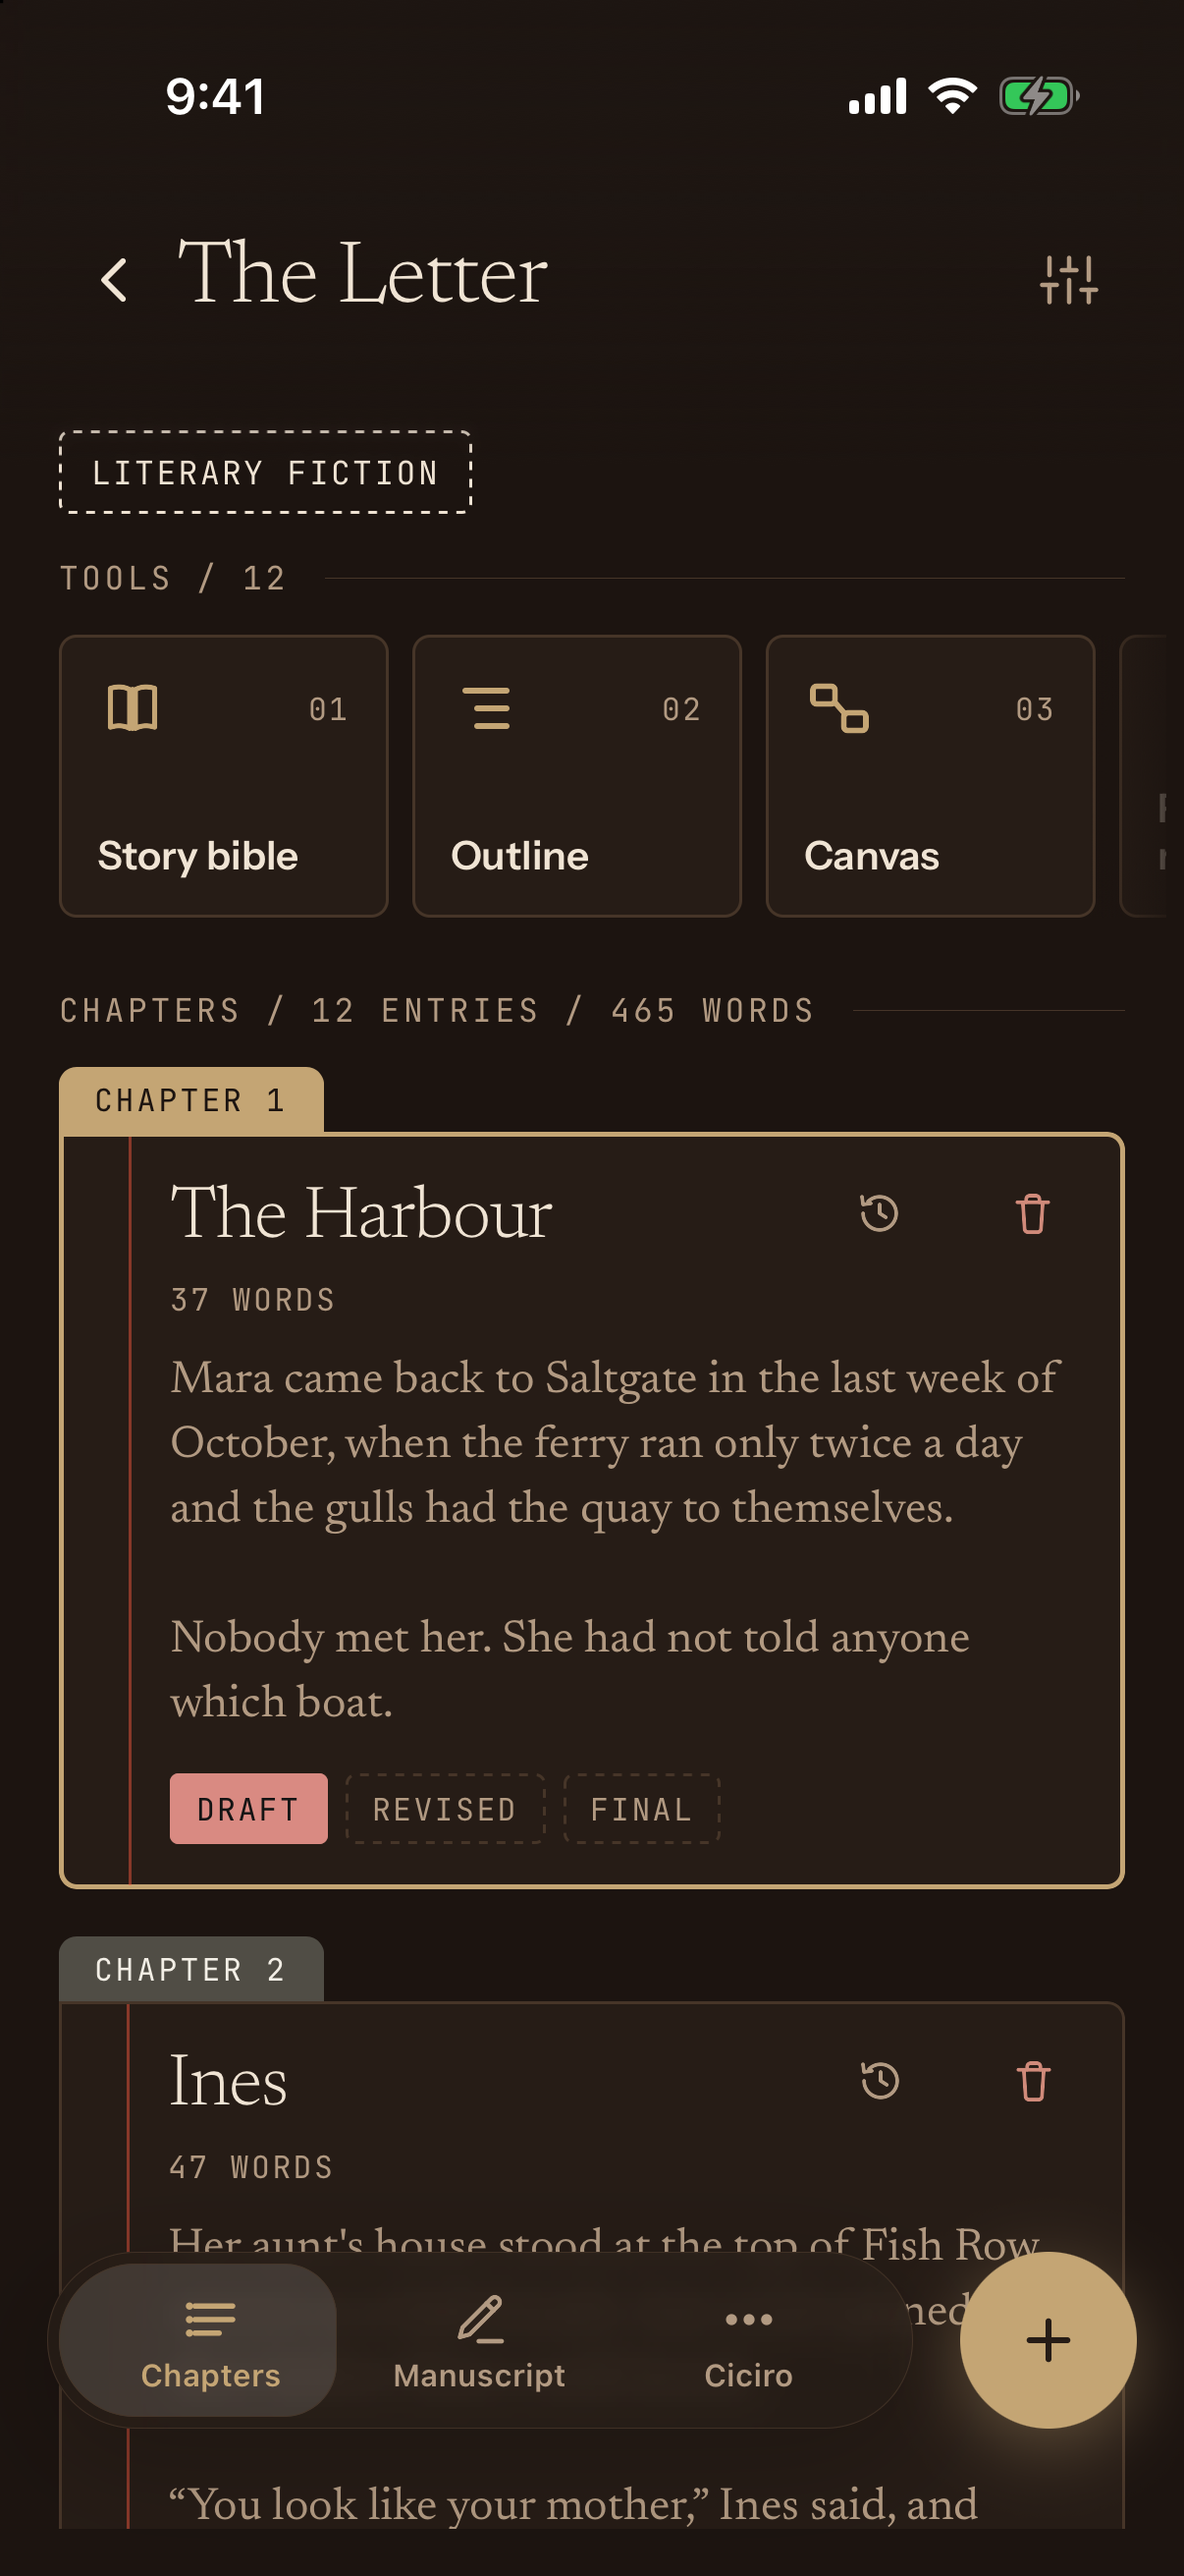
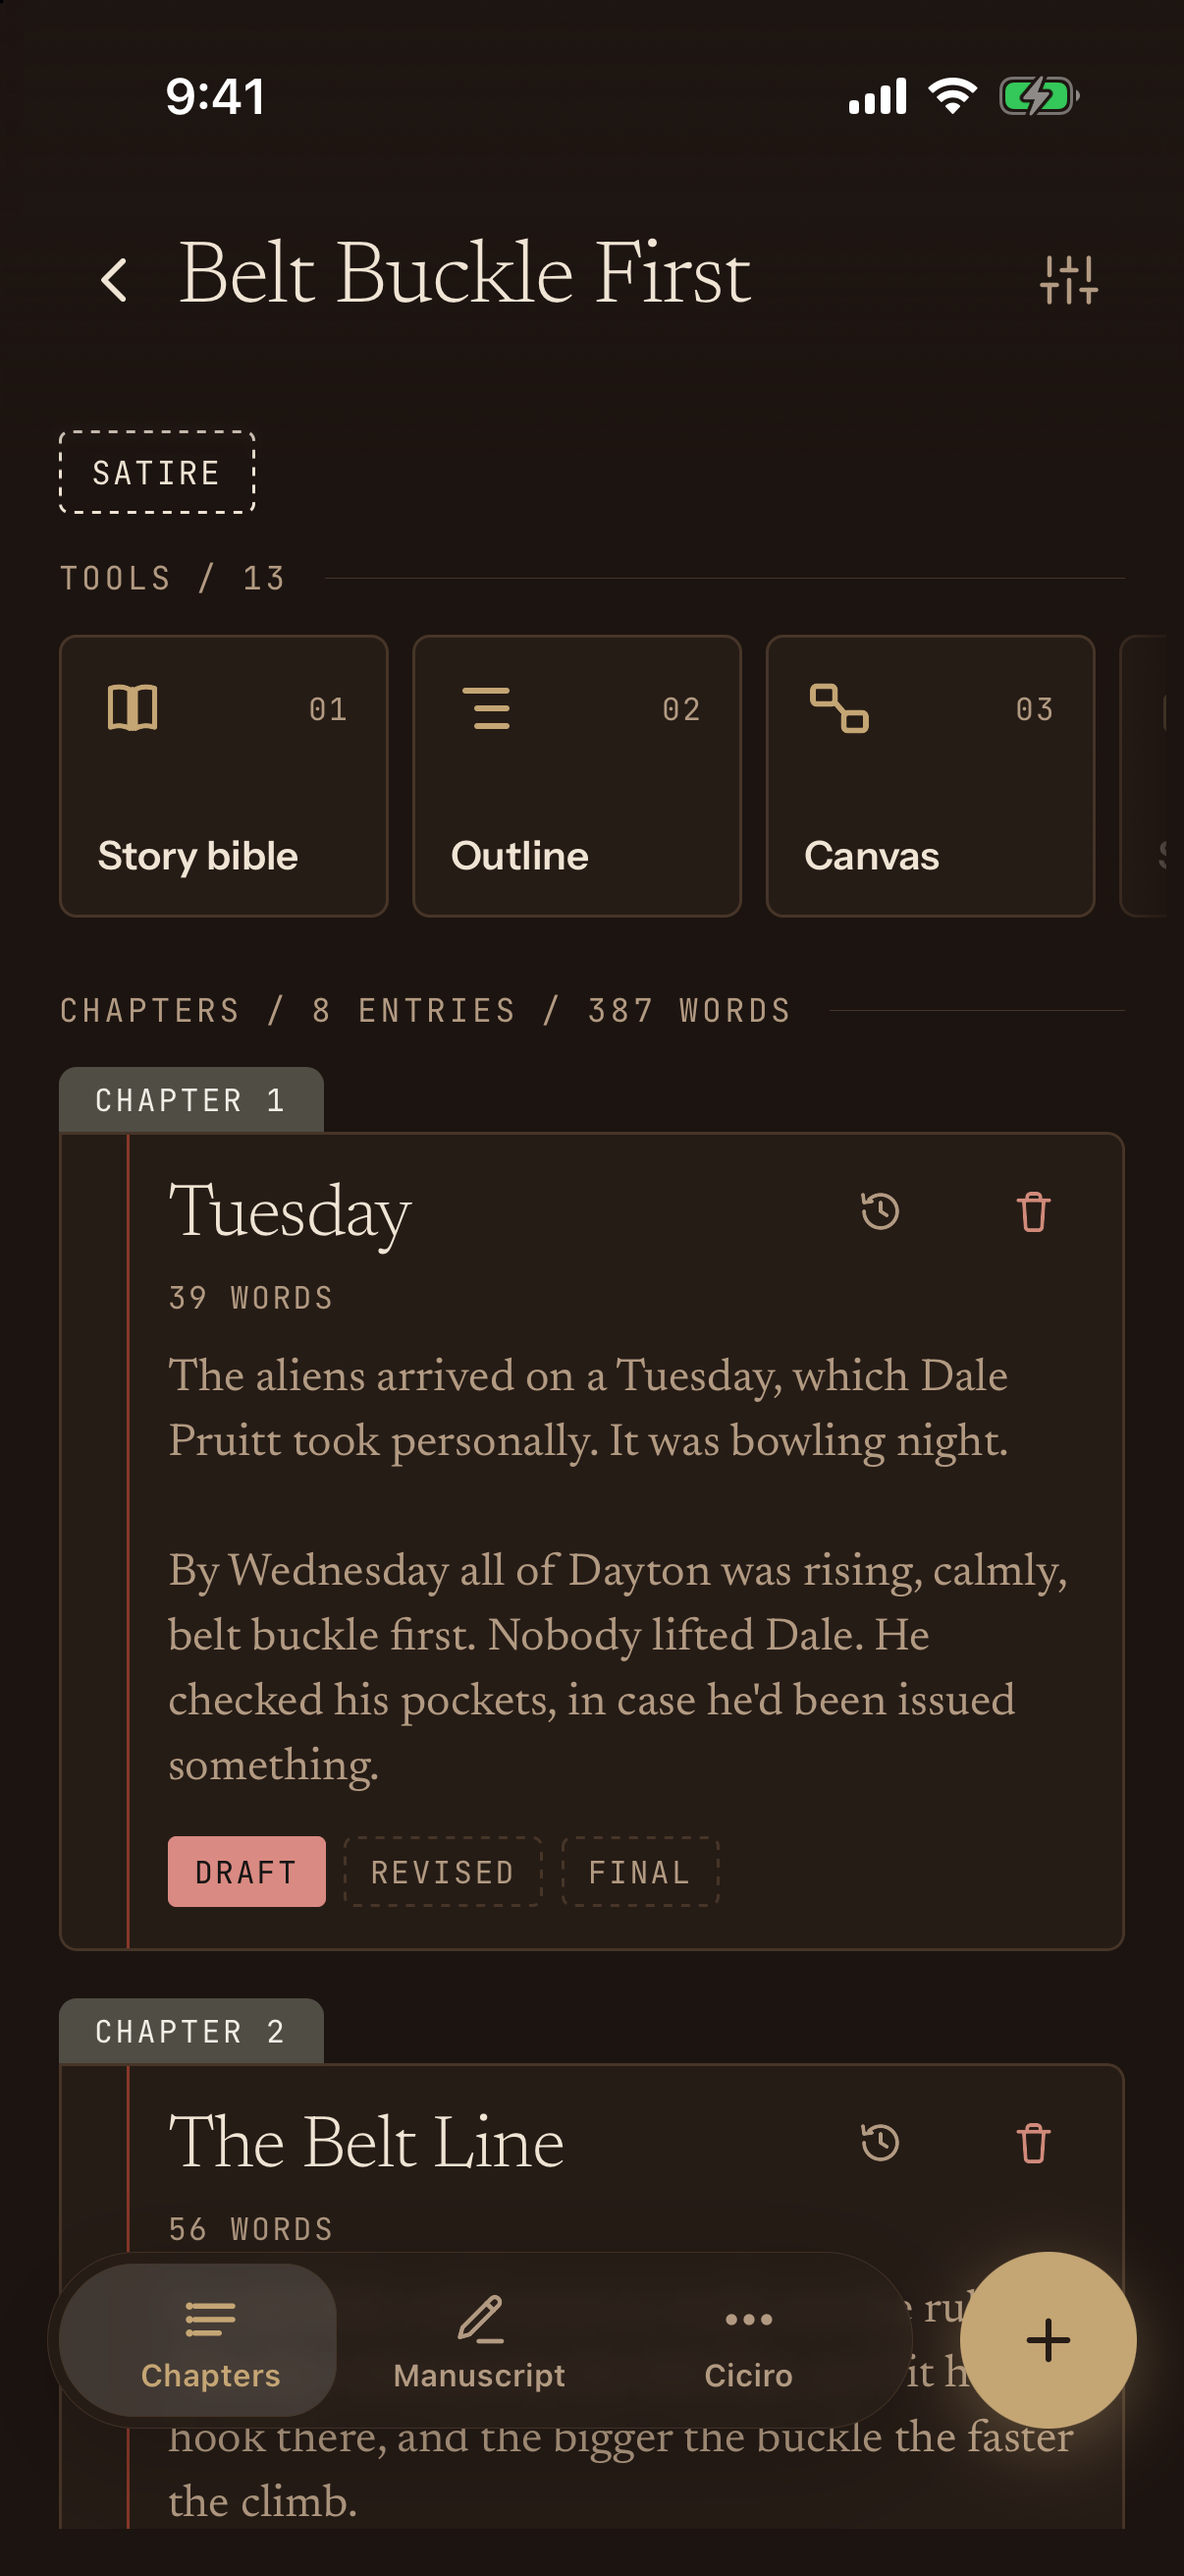
feat(store): revised set with the Belt Buckle First story, action headlines and recaptured screens
Sample content is now a satirical alien-invasion novel and a script from the
same world instead of literary drama. Headlines are action-oriented, the
commute frame drops dictation for sprint / offline saving / listen back, the
suggestion frame swaps a limp metaphor for a concrete one, the exercise frame
shows the new picker of four, and the bible entries carry real preview text.
All captures retaken from main at f71b1a6e (iPhone 17 and iPad Pro 13-inch).

diff --git a/tools/store-screenshots/src/styles.css b/tools/store-screenshots/src/styles.css
@@ -283,7 +283,7 @@ h1 em {
 }
 /* The reminder banner is a rounded card of its own: round the cut to match. */
 .cut.notif {
-  border-radius: var(--notif-r, 6.3% / 22%);
+  border-radius: var(--notif-r, 6.3% / 19.5%);
   background: transparent;
 }
 .chip {
@@ -365,7 +365,7 @@ h1 em {
   --head-h: 590px;
 }
 .form-tablet {
-  --notif-r: 5.3% / 34%;
+  --notif-r: 5.6% / 30%;
   --pad-top: 84px;
   --pad-x: 80px;
   --tab-size: 20px;

diff --git a/tools/store-screenshots/README.md b/tools/store-screenshots/README.md
@@ -52,15 +52,26 @@ and bezels `src/styles.css`.
 
 | # | Headline | Picture | What it sells |
 |---|---|---|---|
-| 1 | Keeps you writing, five minutes at a time. | Editor, open on the last sentence | The habit, for people who write in stolen minutes |
-| 2 | A script that looks like a script. | Screenplay mode (Beta) with the element bar, and a page of the script | A real screenplay format on a phone |
-| 3 | A reminder that knows where you left off. | Reminder setup + the personalised notification | Reminders that quote your last lines |
-| 4 | Your commute is a writing session. | Sprint, with dictate / listen back / 15 min sprint callouts | Small pockets of time |
-| 5 | Ciciro suggests. You decide. | Tracked suggestions | The book stays yours |
-| 6 | Write a little. Get better at it. | Guided exercise + the weekly review's "what to write next" | Getting better, not just producing words |
-| 7 | What color were her eyes? | Story bible | Canon beside the chapters |
+| 1 | Build a writing habit, five minutes at a time. | Editor, open on the last sentence | The habit, for people who write in stolen minutes |
+| 2 | Write a script that looks like a script. | Screenplay mode (Beta) with the element bar, and a page of the script | A real screenplay format on a phone |
+| 3 | Get a reminder that knows where you left off. | Reminder setup + the personalised notification | Reminders that quote your last lines and nudge you back in |
+| 4 | Make your commute a writing session. | Sprint, with 15 min sprint / saves offline / listen back callouts | Small pockets of time |
+| 5 | Let Ciciro suggest. You decide. | A limp metaphor swapped for a concrete one, as a tracked change | Edits that make the writing better, and stay yours |
+| 6 | Learn to enjoy writing. | The guided exercises, and the weekly review's "what to write next" | Habit and getting better |
+| 7 | Keep every detail straight. | Story bible, with a character entry | Canon beside the chapters |
 | 8 | Make it yours. | Three themes side by side | Eight themes |
 | held | Scan your handwritten notes into your story bible. | Not rendered by default | Planned, see below |
+
+Headlines are action-oriented on purpose: "Make your commute a writing
+session", not "Your commute is a writing session".
+
+The sample content is one coherent, funny world rather than literary drama,
+because people do read store screenshots: "Belt Buckle First" is a satire in
+which an alien invasion lifts everyone in Dayton into the sky belt buckle first
+and the narrator, Dale, wants to know why he is not going up like everyone
+else. The screenplay is a scene from the same world, the story bible is its
+canon, the reminder quotes its last lines, and the suggestion swaps a flat
+metaphor for one you can see. `seed/seed.mjs` writes all of it.
 
 Eight frames, so one sequence fits Google Play's limit and the App Store's.
 Every claim is a feature the phone ships today; screenplay is marked Beta in
@@ -100,7 +111,7 @@ production:
 ```sh
 # repo root: DATABASE_URL="file:./dev.db", CICIRO_REQUIRE_AUTH=true in .env
 npm run setup && npx next dev -p 3187
-node tools/store-screenshots/seed/seed.mjs          # "The Letter" by Nell Harrow, "Ten Minutes" (a script)
+node tools/store-screenshots/seed/seed.mjs --reset   # "Belt Buckle First" and the script "Number Forty-Seven"
 # apps/mobile/.env: EXPO_PUBLIC_API_URL=http://localhost:3187
 cd apps/mobile && npx expo start --dev-client --port 8187
 ```
@@ -109,22 +120,22 @@ Sign in as `store-shots@ciciro.test` (password in `seed/seed.mjs`). Then, with
 the simulator booted by the person holding its turn, `capture/sim.sh` cleans
 the status bar (9:41, full bars), opens deep links, delivers the reminder
 banner (`capture/notification.json`, the title and body shape the app
-schedules, with the last lines of chapter 12) and saves each capture. Which
+schedules, with the last lines of chapter 7, "A Fair Question") and saves each capture. Which
 screen each name is:
 
 | Capture | Screen |
 |---|---|
-| `editor` | Chapter 12, "The Letter", caret at the end of the last sentence (iPad: with two more paragraphs typed in, then removed) |
-| `screenplay` | "Ten Minutes", the screenplay, page layout on (Settings > Screenplay > Page layout while typing), element bar |
+| `editor` | Chapter 1, "Tuesday", caret at the end of the last sentence |
+| `screenplay` | "Number Forty-Seven", the screenplay, page layout on (Settings > Screenplay > Page layout while typing), element bar |
 | `screenplay-pages` | The same script's Pages tile (one sheet, with page numbers) |
-| `reminder` | Writing reminder form for The Letter: 250 words, 8:00 AM, Mon / Wed / Thu / Sat |
+| `reminder` | Writing reminder form for Belt Buckle First: 250 words, 8:00 AM, Mon / Wed / Thu / Sat |
 | `notification` | The reminder banner over the home screen, long-pressed to expand; cropped by `src/crops.mjs` |
 | `sprint` | A 15 minute sprint running, Ciciro Night, a few words typed first (chapter 1 is restored afterwards) |
-| `suggestions` | Chapter 11 with three tracked changes from Ciciro, the Suggestions sheet open |
-| `exercise-intro` | The guided writing exercise's first screen |
-| `weekly-review-next` | Weekly review for The Letter, scrolled to "What to write next" (the seed writes the review directly, so no model call is spent) |
-| `bible`, `bible-entry` | Story bible list, and Ines Lind's entry |
-| `theme-ciciro`, `theme-night`, `theme-bookshelf` | The chapters tab of The Letter in each theme (Settings > Theme) |
+| `suggestions` | Chapter 4, "Aisle Nine", with three tracked changes from Ciciro, the Suggestions sheet open |
+| `exercise-picker` | The guided writing exercises: the list of four |
+| `weekly-review-next` | Weekly review for Belt Buckle First, scrolled to "What to write next" (the seed writes the review directly, so no model call is spent) |
+| `bible`, `bible-entry` | Story bible list, and Rhonda Pruitt's entry |
+| `theme-ciciro`, `theme-night`, `theme-bookshelf` | The chapters tab of Belt Buckle First in each theme (Settings > Theme) |
 
 Floating cards are cut from the captures by fractions in `src/crops.mjs` (phone
 and tablet have their own rects); if a screen moves, adjust the rect. The
